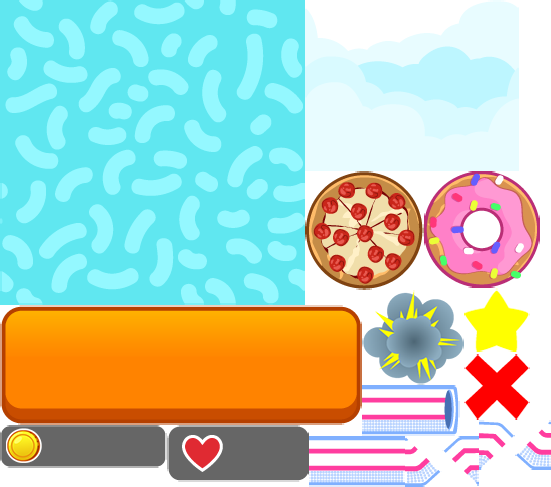
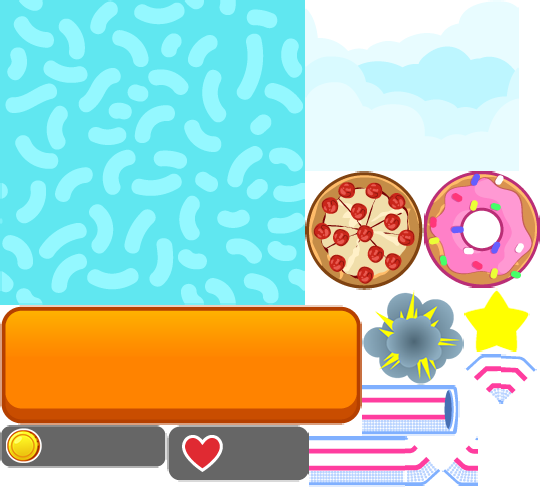
Cambios de particulas circulead

diff --git a/newStructure/minigames/circulead/js/scenes/circulead.js b/newStructure/minigames/circulead/js/scenes/circulead.js
@@ -516,7 +516,10 @@ var circulead = function(){
     function blockHitUp (body, bodyB, shapeA, shapeB, equation) {
         if (body && backDonut.body.active){
             if(body.name == "poweruppizza"){
-                addPoint(1);
+                particleCorrect.x = playerYogotar.x;
+                particleCorrect.y = playerYogotar.y;
+                particleCorrect.start(true, 1000, null, 1);
+                addCoin(playerYogotar);
                 destroyPowerUp(body);
                 playAnimation(1);
                 backDonut.body.kinematic = true;
@@ -589,7 +592,10 @@ var circulead = function(){
     function pizzaCollision(body, bodyB, shapeA, shapeB, equation) {
         if (body && backPizza.body.active){
             if(body.name == "powerupdona"){
-                addPoint(1);
+                particleCorrect.x = playerYogotar.x;
+                particleCorrect.y = playerYogotar.y;
+                particleCorrect.start(true, 1000, null, 1);
+                addCoin(playerYogotar);
                 var newPosYPowerUp = body.y - 70;
                 destroyPowerUp(body);
                 playAnimation(0);
@@ -757,6 +763,9 @@ var circulead = function(){
                     playAnimation(4); 
                }
             }
+            particleWrong.x = playerYogotar.x;
+            particleWrong.y = playerYogotar.y;
+            particleWrong.start(true, 1000, null, 1);
             missPoint();
             nextMissPoint = game.time.now + 1500;
         }
@@ -1272,7 +1281,7 @@ var circulead = function(){
             particleCorrect = createPart('star');
             sceneGroup.add(particleCorrect);
 
-            particleWrong = createPart('wrong');
+            particleWrong = createPart('smoke');
             sceneGroup.add(particleWrong);
 
             buttons.getButton(circuleadSong,sceneGroup)
